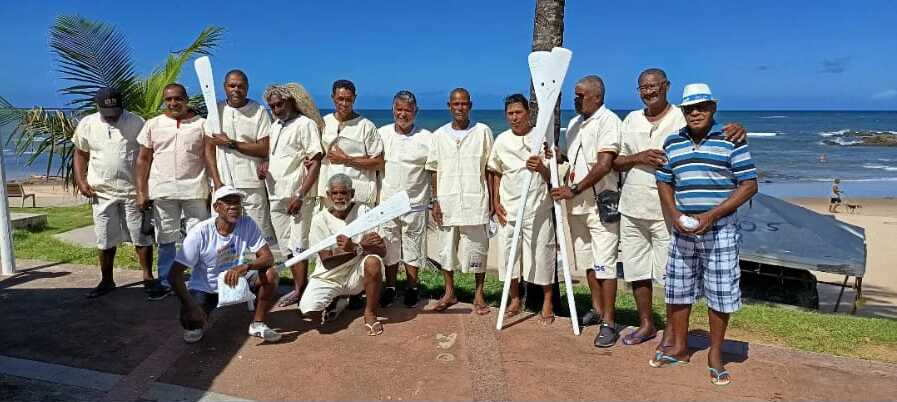
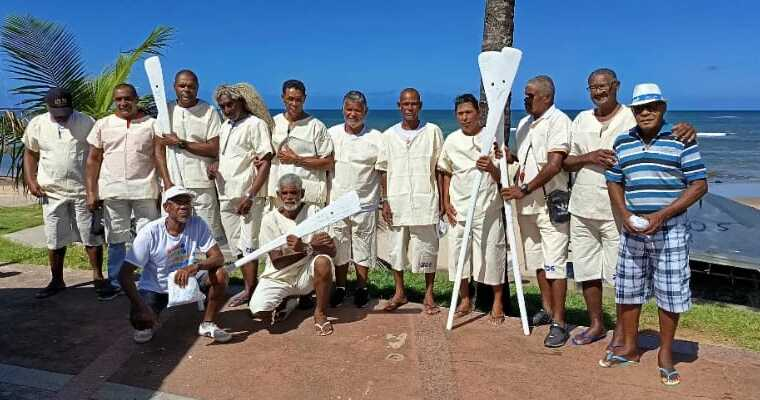
ajuste tamanho imagens

diff --git a/index.html b/index.html
@@ -36,9 +36,9 @@
     <main>
         <div class="carrossel">
             <div class="slides">
-                <img src="Imagens/posto1.jpeg" alt="pescadores">
-                <img src="Imagens/posto2.jpeg" alt="pescador barco">
-                <img src="Imagens/posto4.jpeg" alt="pescador preto e branco">
+                <img src="Imagens/pescador15.jpeg" alt="pescadores">
+                <img src="Imagens/carrossel2.jpeg" alt="pescador barco">
+                <img src="Imagens/carrossel3.jpeg" alt="pescador preto e branco">
             </div>
             <button class="esquerda">&#10094;</button>
             <button class="direita">&#10095;</button>

diff --git a/styles/style.css b/styles/style.css
@@ -17,7 +17,7 @@ body {
     overflow: hidden;
     position: relative;
     margin: auto;
-    max-height: 80%;
+    
 
 }
 
@@ -84,6 +84,10 @@ header {
     margin-bottom: 10px;
     padding: 10px;
     z-index: 1;
+    display: flex;
+    align-items: center;
+    justify-content: center;
+    gap: -2000px;
 }
 
 header div {
@@ -125,6 +129,7 @@ footer {
     align-items: center;
     background-color: #0b1535;
     font-size: 15px;
+    justify-content: end;
     
     left: 0;
     bottom: 0;
@@ -146,7 +151,7 @@ footer div {
 }
 
 .logo_rodape{
-    
+    display: flex;
 }
 
 .link_rodape{
